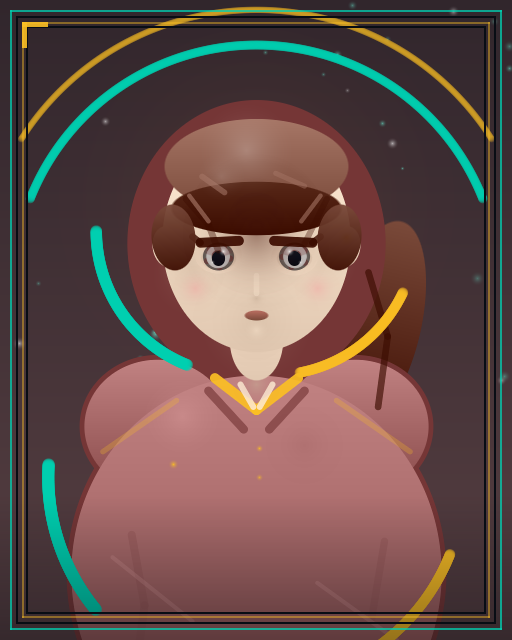
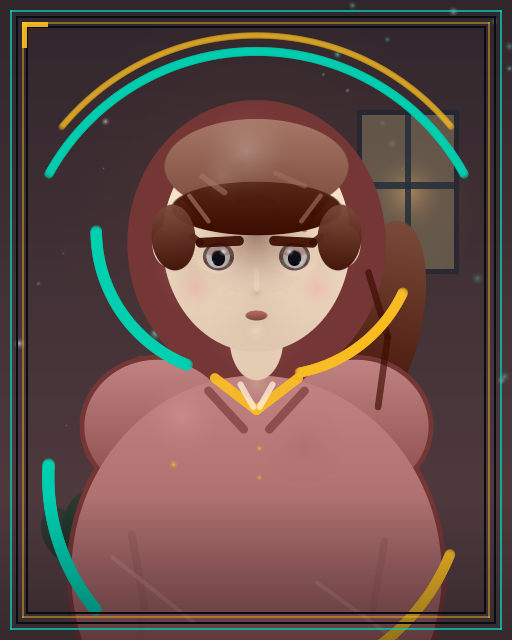
feat(echocraft): R25 场景背景丰富化 + critic P0 修复
- 六分类微型环境画 v3：奇幻森林/霓虹都市/历史宫灯/推理书房/静谧窗光/奥德赛星系
  三层结构（天光背光→暗剪影母题→前景点源），明度分层可读
- 根因修复：category/geo 未传参（此前全员 quiet 兜底场景）；顾星辞改归 odyssey
- critic P0：眼神划痕清零（发丝线端点禁入眼区 + side 刘海团上移）
- critic P0：弧带纪律（半径/角度收束不穿画框不压身体）+ 浮动 trim 斜线删除
- critic P1：决策面板文案重复修复、宫灯檐梁依附、lore 文字墙段落化 + 暗色滚动条
- 版本参数 v=2133；封面 9 张重生成；smoke 130 断言全绿

diff --git a/public/pixel-tavern/portrait-painter.js b/public/pixel-tavern/portrait-painter.js
@@ -110,6 +110,11 @@
             polyline(pts, r, col, a) {
                 for (let i = 0; i < pts.length - 1; i++) this.capsule(pts[i][0], pts[i][1], pts[i + 1][0], pts[i + 1][1], r, col, a);
             },
+            rect(x, y, w, h, col, a) {
+                const x0 = Math.max(0, Math.round(x)), x1 = Math.min(this.W, Math.round(x + w));
+                const y0 = Math.max(0, Math.round(y)), y1 = Math.min(this.H, Math.round(y + h));
+                for (let yy = y0; yy < y1; yy++) for (let xx = x0; xx < x1; xx++) put(xx, yy, col[0], col[1], col[2], a);
+            },
             _s: 1,
         };
     }
@@ -146,31 +151,154 @@
         };
     }
 
-    /* ---------- 分类场景道具（人物身后的叙事环境，软剪影） ---------- */
-    function sceneProps(g, S, wx, headCY, base, p, rand) {
+    /* ---------- 分类场景：有纵深/光源/氛围的微型环境画 v3 ----------
+     * 可见性三原则：亮天光当背景 → 暗剪影母题（明度差 ≥15%、画幅 ≥25%）→ 前景点源。
+     * 眼区/身体区为场景禁区；弧带与画框留白。 */
+    function sceneProps(g, S, scx, headCY, base, p, rand) {
+        const C = { warm: [255, 186, 110], tealSoft: [102, 212, 190] };
+        const R = (a, b) => a + rand() * (b - a);
+
         if (p.cat === 'fantasy') {
-            for (let i = 0; i < 5; i++) {
-                const fx = wx + S(-130 + i * 65), fh = S(90 + rand() * 60);
-                g.ell(fx, base - S(30) - fh / 2, S(26), fh / 2, 0, shade(p.bg1, -46), shade(p.bg1, -70), 0.85);
+            /* 天光：月光主导的左上天空 */
+            g.glow(scx - S(84), headCY - S(78), S(96), [148, 196, 178], 0.32);
+            g.glow(scx - S(84), headCY - S(78), S(26), [228, 246, 236], 0.55);
+            g.ell(scx - S(84), headCY - S(78), S(15), S(15), 0, [240, 250, 242], [206, 230, 218], 0.9);
+            /* 地平雾带（比背景亮一档，给树影当衬底） */
+            g.ell(scx, base - S(58), S(196), S(72), 0, mix(shade(p.bg1, 10), [126, 164, 146], 0.4), shade(p.bg1, -6), 0.45);
+            /* 远景：整幅森林墙树冠线 */
+            for (let i = 0; i < 12; i++) {
+                const tx = scx + S(-165 + i * 30 + R(-6, 6)), th = S(R(56, 104));
+                g.ell(tx, base - S(10) - th / 2, S(16), th / 2, 0, shade(p.bg1, -50), shade(p.bg1, -68), 0.8);
             }
-            for (let i = 0; i < 8; i++) g.glow(wx + S(-120 + rand() * 240), headCY + S(-60 + rand() * 160), S(2.2 + rand() * 2), [190, 255, 214], 0.5);
-        } else if (p.cat === 'neon') {
-            for (let i = 0; i < 6; i++) {
-                const bx = wx + S(-150 + i * 52), bw = S(44), bh = S(70 + rand() * 80);
-                g.ell(bx, base - bh / 2, bw / 2, bh / 2, 0, shade(p.bg1, -50), shade(p.bg1, -72), 0.9);
-            }
-            g.glow(wx + S(-96), base - S(150), S(16), hexRGB(AMBER), 0.55);
-            g.glow(wx + S(110), base - S(110), S(14), hexRGB(TEAL), 0.5);
-        } else if (p.cat === 'history') {
+            /* 中景：左右大树（暗剪影 + 月侧亮边） */
             for (const side of [-1, 1]) {
-                const lx = wx + side * S(118), ly = headCY - S(70);
-                g.ell(lx, ly, S(13), S(16), 0, [214, 120, 66], [140, 64, 40], 0.92);
-                g.capsule(lx, ly - S(24), lx, ly - S(15), Math.max(0.8, S(1.2)), [120, 80, 50], 0.8);
-                g.glow(lx, ly, S(26), [255, 170, 90], 0.4);
+                const tx = scx + side * S(112 + R(0, 14)), th = S(R(150, 196));
+                g.capsule(tx, base, tx + S(side * 6), base - th, S(5), shade(p.bg1, -76), 0.95);
+                for (let c = 0; c < 4; c++) {
+                    const cx2 = tx + S(side * R(-6, 16)), cy2 = base - th - S(c * 12 + R(0, 8)), cr = S(R(18, 26));
+                    g.ell(cx2 - S(side * 3), cy2 - S(3), cr, cr * 0.78, R(-0.3, 0.3), [152, 192, 174], [128, 168, 150], 0.3);
+                    g.ell(cx2, cy2, cr, cr * 0.78, R(-0.3, 0.3), shade(p.bg1, -58), shade(p.bg1, -76), 0.92);
+                }
             }
+            /* 月光光柱（斜切） */
+            g.capsule(scx - S(96), -S(24), scx - S(28), base - S(28), S(17), [188, 228, 208], 0.12);
+            g.capsule(scx - S(70), -S(12), scx - S(20), base - S(44), S(9), [188, 228, 208], 0.09);
+            /* 前景：地面雾 + 萤火虫 */
+            for (let i = 0; i < 3; i++) g.glow(scx + S(-100 + i * 100), base - S(4), S(30), [182, 216, 198], 0.16);
+            for (let i = 0; i < 12; i++) g.glow(scx + S(R(-145, 145)), headCY + S(R(-50, 170)), S(R(1.6, 3.4)), [196, 255, 220], R(0.4, 0.7));
+        } else if (p.cat === 'neon') {
+            /* 天光：地平城市辉光（品红 + 青） */
+            g.glow(scx, base - S(36), S(160), [172, 92, 148], 0.26);
+            g.glow(scx - S(64), base - S(60), S(70), [104, 88, 176], 0.2);
+            g.glow(scx + S(88), base - S(46), S(64), [76, 102, 164], 0.2);
+            g.ell(scx, base - S(8), S(204), S(26), 0, [98, 78, 122], [64, 58, 88], 0.5);
+            /* 远景：整幅天际线（连绵楼墙 + 密集窗格点阵） */
+            for (let i = 0; i < 13; i++) {
+                const bx = scx + S(-168 + i * 26), bw = S(R(16, 24)), bh = S(R(44, 96));
+                g.rect(bx, base - bh, bw, bh + S(8), shade(p.bg1, -62), 0.85);
+                for (let wy = 0; wy < Math.floor(bh / S(14)); wy++) for (let wx2 = 0; wx2 < 2; wx2++) {
+                    if (rand() < 0.55) g.rect(bx + S(3 + wx2 * 7), base - bh + S(6 + wy * 13), S(2.6), S(4), rand() < 0.6 ? C.warm : C.tealSoft, 0.8);
+                }
+            }
+            /* 中景：左右双塔 + 霓虹笔画 */
+            for (const side of [-1, 1]) {
+                const bx = scx + side * S(R(106, 128)), bw = S(R(36, 46)), bh = S(R(140, 184));
+                g.rect(bx - bw / 2, base - bh, bw, bh + S(8), shade(p.bg1, -80), 0.95);
+                for (let wy = 0; wy < 6; wy++) for (let wx2 = 0; wx2 < 3; wx2++) {
+                    if (rand() < 0.5) g.rect(bx - bw / 2 + S(6 + wx2 * 11), base - bh + S(12 + wy * 24), S(3.2), S(6), rand() < 0.55 ? C.warm : C.tealSoft, 0.85);
+                }
+                const nc = side < 0 ? hexRGB(TEAL) : hexRGB(AMBER);
+                g.polyline([[bx - bw / 2 + S(4), base - bh + S(10)], [bx - bw / 2 + S(4), base - S(30)]], Math.max(1, S(2)), nc, 0.85);
+                g.polyline([[bx + bw / 2 - S(4), base - bh + S(10)], [bx + bw / 2 - S(4), base - S(46)]], Math.max(1, S(2)), nc, 0.7);
+                g.glow(bx, base - bh + S(8), S(14), nc, 0.4);
+            }
+            /* 雨丝 */
+            for (let i = 0; i < 13; i++) {
+                const rx = scx + S(R(-150, 150)), ry = S(R(-10, 380));
+                g.capsule(rx, ry, rx + S(3), ry + S(12), Math.max(0.4, S(0.55)), [158, 194, 216], 0.2);
+            }
+        } else if (p.cat === 'history') {
+            /* 天光：殿顶后的暖霞 */
+            g.glow(scx, base - S(120), S(140), [214, 132, 84], 0.18);
+            g.glow(scx - S(96), headCY - S(40), S(52), [255, 176, 104], 0.16);
+            /* 檐梁剪影：横贯上部的屋檐，给宫灯依附 */
+            g.rect(0, headCY - S(106), 340 * S(1), S(7), shade(p.bg1, -68), 0.62);
+            g.rect(0, headCY - S(99), 340 * S(1), S(2), shade(p.bg1, -52), 0.5);
+            /* 远景飞檐：角上两片弧脊剪影 */
+            for (const side of [-1, 1]) {
+                const px = scx + side * S(118);
+                g.band(px, base - S(84), S(56), side > 0 ? Math.PI * 1.12 : Math.PI * 1.42, side > 0 ? Math.PI * 1.58 : Math.PI * 1.88, Math.max(1.6, S(3.4)), shade(p.bg1, -68), 0.72);
+                g.rect(px + side * S(4) - S(20), base - S(84), S(40), S(44), shade(p.bg1, -62), 0.62);
+            }
+            /* 中景宫灯：檐梁下垂挂，左右各一盏 */
+            for (const side of [-1, 1]) {
+                const lx = scx + side * S(118), ly = headCY - S(R(56, 76));
+                g.capsule(lx, headCY - S(99), lx, ly - S(11), Math.max(0.7, S(1)), [116, 82, 54], 0.85);
+                g.ell(lx, ly, S(8.5), S(11), 0, [238, 146, 82], [156, 76, 44], 0.95);
+                g.glow(lx, ly, S(22), [255, 176, 96], 0.4);
+            }
+            /* 近景飘落花瓣 */
+            for (let i = 0; i < 9; i++) {
+                const fx = scx + S(R(-140, 140)), fy = headCY + S(R(-60, 180));
+                g.ell(fx, fy, S(2.4), S(1.4), R(0, 3), [255, 190, 200], [228, 150, 160], 0.42);
+            }
+        } else if (p.cat === 'mystery') {
+            /* 天光：窗外冷月 */
+            g.glow(scx - S(40), headCY - S(90), S(80), [128, 158, 196], 0.22);
+            g.glow(scx - S(40), headCY - S(90), S(22), [214, 230, 246], 0.4);
+            /* 两侧书架 + 书脊 */
+            for (const side of [-1, 1]) {
+                const shx = scx + side * S(122);
+                g.rect(shx - S(26), headCY - S(92), S(52), S(230), [16, 20, 28], 0.82);
+                for (let row = 0; row < 4; row++) {
+                    const ry = headCY - S(78) + row * S(56);
+                    g.rect(shx - S(26), ry, S(52), S(2.4), [70, 82, 98], 0.7);
+                    for (let b = 0; b < 5; b++) {
+                        if (rand() < 0.78) {
+                            const bh2 = S(R(12, 19));
+                            g.rect(shx - S(22) + b * S(9.6), ry - bh2, S(7.4), bh2, [96 + b * 12, 62 + ((b * 23) % 40), 54], 0.72);
+                        }
+                    }
+                }
+            }
+            /* 月光斜窗 */
+            g.capsule(scx + S(-76), -S(16), scx + S(4), base - S(40), S(17), [198, 220, 238], 0.1);
+            g.capsule(scx + S(-50), -S(8), scx + S(20), base - S(56), S(8), [198, 220, 238], 0.08);
+            /* 浮尘 */
+            for (let i = 0; i < 14; i++) g.glow(scx + S(R(-140, 140)), headCY + S(R(-90, 170)), S(R(0.8, 1.8)), [226, 226, 214], R(0.2, 0.4));
+        } else if (p.cat === 'quiet') {
+            /* 天光：室内暖灯（右上） */
+            g.glow(scx + S(94), headCY - S(24), S(56), C.warm, 0.2);
+            /* 右侧窗：暖光 + 窗棂 */
+            const wx0 = scx + S(66);
+            g.rect(wx0 - S(3), headCY - S(81), S(64), S(102), [30, 38, 50], 0.7);
+            g.glow(wx0 + S(29), headCY - S(30), S(26), C.warm, 0.42);
+            g.rect(wx0, headCY - S(78), S(58), S(96), [242, 196, 130], 0.3);
+            g.rect(wx0 + S(27), headCY - S(78), S(4), S(96), [36, 46, 58], 0.85);
+            g.rect(wx0, headCY - S(36), S(58), S(4), [36, 46, 58], 0.85);
+            /* 左侧盆栽剪影 */
+            const plx = scx - S(116);
+            g.capsule(plx, base - S(6), plx + S(7), base - S(52), Math.max(0.8, S(1.5)), [46, 66, 54], 0.75);
+            g.ell(plx + S(10), base - S(64), S(15), S(22), 0.3, [40, 60, 48], [28, 46, 38], 0.78);
+            g.ell(plx - S(6), base - S(56), S(12), S(18), -0.4, [40, 60, 48], [28, 46, 38], 0.74);
+            /* 暖尘 */
+            for (let i = 0; i < 8; i++) g.glow(scx + S(R(-130, 130)), headCY + S(R(-70, 150)), S(R(0.8, 1.6)), C.warm, R(0.16, 0.32));
         } else if (p.cat === 'odyssey') {
-            g.band(wx, headCY + S(40), S(180), Math.PI * 1.15, Math.PI * 1.75, Math.max(1.2, S(2)), [150, 170, 210], 0.4);
-            g.glow(wx + S(120), headCY - S(90), S(20), [190, 200, 240], 0.35);
+            /* 天光：星云辉光 */
+            g.glow(scx - S(80), headCY - S(60), S(90), [96, 88, 158], 0.2);
+            g.glow(scx + S(90), headCY + S(30), S(70), [72, 108, 158], 0.16);
+            /* 星系带：两道弧 */
+            g.band(scx, headCY + S(46), S(170), Math.PI * 1.14, Math.PI * 1.78, Math.max(1.4, S(2.4)), [162, 184, 224], 0.45);
+            g.band(scx, headCY + S(46), S(146), Math.PI * 1.2, Math.PI * 1.72, Math.max(1.1, S(1.7)), [206, 218, 244], 0.3);
+            /* 远处星球 + 光环（避开弧带与画框交汇区） */
+            const px = scx + S(88), py = headCY - S(64);
+            g.ell(px, py, S(13), S(13), 0, [222, 228, 248], [172, 186, 220], 0.5);
+            g.band(px, py, S(18), Math.PI * 1.06, Math.PI * 1.9, Math.max(0.9, S(1.2)), [196, 208, 238], 0.42);
+            g.glow(px, py, S(22), [198, 208, 246], 0.36);
+            /* 小月亮 */
+            g.ell(scx - S(112), headCY - S(58), S(6.5), S(6.5), 0, [240, 242, 250], [214, 220, 236], 0.6);
+            /* 星尘 */
+            for (let i = 0; i < 18; i++) g.glow(scx + S(R(-150, 150)), headCY + S(R(-110, 170)), S(R(0.7, 1.6)), [255, 255, 255], R(0.18, 0.4));
         }
     }
 
@@ -212,8 +340,8 @@
                 g.glow(bx, by, br * 2.4, rand() > 0.7 ? [255, 255, 255] : [102, 212, 190], 0.32 + rand() * 0.4);
             }
             sceneProps(g, S, headCX, headCY, base, p, rand);
-            g.band(W / 2, headCY + S(30), S(152), Math.PI * 1.12, Math.PI * 1.88, Math.max(1.2, S(2.4)), tealC, 0.42);
-            g.band(W / 2, headCY + S(30), S(174), Math.PI * 1.18, Math.PI * 1.82, Math.max(1, S(1.6)), amberC, 0.22);
+            g.band(W / 2, headCY + S(30), S(148), Math.PI * 1.16, Math.PI * 1.84, Math.max(1.2, S(2.4)), tealC, 0.42);
+            g.band(W / 2, headCY + S(30), S(158), Math.PI * 1.22, Math.PI * 1.78, Math.max(1, S(1.6)), amberC, 0.22);
         }
 
         /* ===== 轮廓底影（暗色描边，让人物从背景里立出来） ===== */
@@ -265,8 +393,6 @@
         g.glow(headCX + S(2), shY + S(42), S(2.6), trimC, 0.85);
         g.glow(headCX + S(2), shY + S(60), S(2.6), trimC, 0.7);
         g.glow(headCX, shY + S(2), S(15), skinDD, 0.5);
-        g.capsule(headCX - S(96), shY + S(44), headCX - S(50), shY + S(12), Math.max(0.8, S(1.4)), trimC, 0.26);
-        g.capsule(headCX + S(96), shY + S(44), headCX + S(50), shY + S(12), Math.max(0.8, S(1.4)), trimC, 0.26);
         g.glow(headCX - S(52), shY + S(52), S(3.4), trimC, 0.9);
         /* 布纹斜线 */
         g.polyline([[headCX - S(90), shY + S(110)], [headCX - S(40), shY + S(150)]], Math.max(0.6, S(1)), shade(p.bg1, 14), 0.3);
@@ -361,8 +487,8 @@
                 g.glow(headCX, headCY - S(10), S(44), hairD, 0.18);
             } else if (p.bangs === 'side') {
                 g.ell(headCX - S(22), headCY - S(20), S(36), S(15), -0.16, hairD, hairDD, 1);
-                g.ell(headCX + S(30), headCY - S(13), S(20), S(12), 0.2, hairD, hairDD, 0.9);
-                g.ell(headCX - S(30), headCY - S(5), S(26), S(6), -0.1, hairDD, hairDD, 0.75);
+                g.ell(headCX + S(30), headCY - S(16), S(20), S(10), 0.2, hairD, hairDD, 0.9);
+                g.ell(headCX - S(32), headCY - S(12), S(26), S(5), -0.1, hairDD, hairDD, 0.7);
             } else if (p.bangs === 'center') {
                 for (const side of [-1, 1]) g.ell(headCX + side * S(28), headCY - S(21), S(28), S(14), side * 0.14, hairD, hairDD, 1);
                 g.glow(headCX, headCY - S(8), S(14), skinDD, 0.3);
@@ -375,10 +501,10 @@
         /* 刘海投影 AO（顶光下眼窝上方的一线暗） */
         if (!p.hat) g.glow(headCX, headCY - S(4), S(46), shade(p.hair, -70), 0.18);
         /* 发丝簇：渐变丝线（暗底+亮芯） */
-        g.polyline([[headCX - S(44), headCY - S(26)], [headCX - S(30), headCY - S(10)], [headCX - S(24), headCY + S(6)]], Math.max(0.8, S(1.8)), hairDD, 0.4);
+        g.polyline([[headCX - S(44), headCY - S(26)], [headCX - S(34), headCY - S(16)], [headCX - S(28), headCY - S(8)]], Math.max(0.8, S(1.8)), hairDD, 0.4);
         g.polyline([[headCX - S(42), headCY - S(28)], [headCX - S(30), headCY - S(12)]], Math.max(0.5, S(1.1)), hairL, 0.65);
         g.polyline([[headCX + S(40), headCY - S(28)], [headCX + S(28), headCY - S(12)]], Math.max(0.5, S(1.1)), hairL, 0.58);
-        g.polyline([[headCX + S(44), headCY - S(26)], [headCX + S(30), headCY + S(2)]], Math.max(0.8, S(1.6)), hairDD, 0.35);
+        g.polyline([[headCX + S(44), headCY - S(26)], [headCX + S(36), headCY - S(17)], [headCX + S(30), headCY - S(7)]], Math.max(0.8, S(1.6)), hairDD, 0.35);
         if (p.hairStyle === 'long' || p.hairStyle === 'bob') {
             g.polyline([[headCX - S(66), headCY + S(16)], [headCX - S(70), headCY + S(56)]], Math.max(0.7, S(1.4)), hairL, 0.42);
             g.polyline([[headCX + S(66), headCY + S(18)], [headCX + S(70), headCY + S(58)]], Math.max(0.7, S(1.4)), hairL, 0.4);

diff --git a/public/pixel-tavern/index.html b/public/pixel-tavern/index.html
@@ -33,7 +33,7 @@
     <link rel="preload" href="/pixel-tavern/portrait-painter.js" as="script">
     <link rel="preload" href="/pixel-tavern/bg-echo.png" as="image">
     <link rel="preload" href="/pixel-tavern/fonts/zpix-subset.woff2" as="font" type="font/woff2" crossorigin>
-    <link rel="stylesheet" href="/pixel-tavern/style.css?v=2131">
+    <link rel="stylesheet" href="/pixel-tavern/style.css?v=2133">
 </head>
 <body data-skin="clean">
 
@@ -324,7 +324,7 @@
                             </div>
                             <div class="imm-track"><span class="lab">剧情追踪</span><div id="imm-track-text" class="tl"><div class="tl-item now">—</div></div></div>
                         </div>
-                        <div class="imm-title small">决策与行动行动选项</div>
+                        <div class="imm-title small">决策与行动选项</div>
                         <div id="chat-options"></div>
                     </div>
                     <button type="button" id="btn-chat-bottom" class="px-btn sq hidden" title="回到最新消息">▼ 回到底部</button>
@@ -440,13 +440,13 @@
     <footer class="site-foot">幻境回声 · EchoCraft — 沉浸式叙事沙龙 · 对话内容由 AI 生成，请注意辨别 · <a href="/pixel-tavern/">经典核心</a></footer>
     <div id="toast-wrap"></div>
 
-    <script src="/pixel-tavern/cards.js?v=2131"></script>
-    <script src="/pixel-tavern/data.js?v=2131"></script>
-    <script src="/pixel-tavern/portrait-painter.js?v=2131"></script>
-    <script src="/pixel-tavern/avatars.js?v=2131"></script>
-    <script src="/pixel-tavern/market.js?v=2131"></script>
-    <script src="/pixel-tavern/jukebox.js?v=2131"></script>
-    <script src="/pixel-tavern/chat.js?v=2131"></script>
-    <script src="/pixel-tavern/app.js?v=2131"></script>
+    <script src="/pixel-tavern/cards.js?v=2133"></script>
+    <script src="/pixel-tavern/data.js?v=2133"></script>
+    <script src="/pixel-tavern/portrait-painter.js?v=2133"></script>
+    <script src="/pixel-tavern/avatars.js?v=2133"></script>
+    <script src="/pixel-tavern/market.js?v=2133"></script>
+    <script src="/pixel-tavern/jukebox.js?v=2133"></script>
+    <script src="/pixel-tavern/chat.js?v=2133"></script>
+    <script src="/pixel-tavern/app.js?v=2133"></script>
 </body>
 </html>

diff --git a/public/pixel-tavern/market.js b/public/pixel-tavern/market.js
@@ -203,7 +203,7 @@ function openDetail(id) {
         loreBox.classList.toggle('hidden', !lore.length);
         loreBox.open = false;
         loreList.innerHTML = lore.map((e, i) =>
-            `<div class="lore-item${e.core ? ' core' : ''}" data-i="${i}" title="点击以此话题切入对话"><div class="lore-title">${esc(e.title || '')}${e.core ? '<i>核心</i>' : ''}</div><div class="lore-text">${esc(e.text || '')}</div></div>`
+            `<div class="lore-item${e.core ? ' core' : ''}" data-i="${i}" title="点击以此话题切入对话"><div class="lore-title">${esc(e.title || '')}${e.core ? '<i>核心</i>' : ''}</div><div class="lore-text">${esc(e.text || '').split(/\n+/).map((t) => `<p>${t}</p>`).join('')}</div></div>`
         ).join('');
         loreList.querySelectorAll('.lore-item').forEach(el => {
             el.addEventListener('click', () => {

diff --git a/public/pixel-tavern/cards.js b/public/pixel-tavern/cards.js
@@ -2,7 +2,7 @@
  * 幻境回声 · EchoCraft — 门户角色数据（生成物，勿手改）
  * 来源：data/default-user/characters/*.png（经典酒馆卡库，唯一角色数据源）
  * 重新生成：node tools/make-demo-cards.mjs && node tools/build-cards.mjs
- * 生成时间：2026-11-14T19:16:21.178Z
+ * 生成时间：2026-11-16T15:34:07.489Z
  * ============================================================ */
 'use strict';
 
@@ -334,7 +334,7 @@ window.PT_CARD_CHARACTERS = [
         "id": "card-guxingci",
         "name": "顾星辞",
         "title": "咖啡店长",
-        "category": "quiet",
+        "category": "odyssey",
         "seed": 32,
         "tags": [
             "幻境回声",

diff --git a/public/pixel-tavern/style.css b/public/pixel-tavern/style.css
@@ -2634,3 +2634,26 @@ body:has(.view[data-view="chat"]:not(.hidden)) #tavern-ticker {
     background: #f59e0b;
     color: #1a1206;
 }
+
+/* R25d：设定集阅读性（段落切分 + 暗色滚动条） */
+.lore-text p {
+    margin: 0 0 10px;
+    line-height: 1.85;
+}
+.lore-text p:last-child {
+    margin-bottom: 0;
+}
+#detail-lore-list {
+    scrollbar-width: thin;
+    scrollbar-color: rgba(0, 209, 178, 0.28) transparent;
+}
+#detail-lore-list::-webkit-scrollbar {
+    width: 8px;
+}
+#detail-lore-list::-webkit-scrollbar-thumb {
+    background: rgba(0, 209, 178, 0.28);
+    border-radius: 4px;
+}
+#detail-lore-list::-webkit-scrollbar-track {
+    background: transparent;
+}

diff --git a/public/pixel-tavern/avatars.js b/public/pixel-tavern/avatars.js
@@ -67,7 +67,7 @@ const PTAvatar = (() => {
         const seed = options.seed ?? char.seed ?? hashString(char.name || char.id || 'echo');
         if (window.ECPainter) {
             const img = ctx.createImageData(W, H);
-            window.ECPainter.paint(img.data, W, H, { palette: char.palette, avatar: char.avatar, seed: seed, name: char.name });
+            window.ECPainter.paint(img.data, W, H, { palette: char.palette, avatar: char.avatar, seed: seed, name: char.name, category: char.category, geo: char.geo });
             ctx.putImageData(img, 0, 0);
         } else {
             /* 兜底：共享绘制器缺失时的极简占位 */
